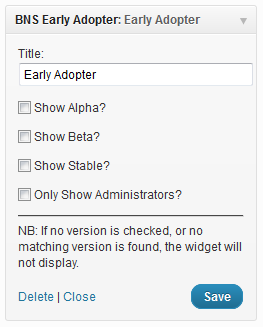
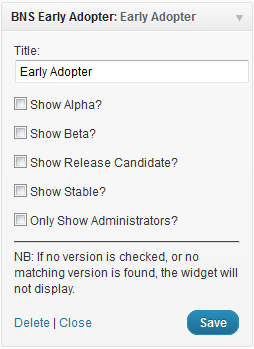
Added `margin: 0` to 'h3.bnsea-output'; updated screenshot

diff --git a/bnsea-style.css b/bnsea-style.css
@@ -1,6 +1,6 @@
 /**
  * This file is part of BNS Early Adopter
- * Last revised at version 0.2
+ * Last revised at version 0.3.1
  *
  * Copyright 2012  Edward Caissie  (email : edward.caissie@gmail.com)
  *
@@ -36,5 +36,6 @@ div.bnsea-shortcode div.widget h2 {
 
 h3.bnsea-output {
     font-style: italic;
+    margin: 0;
     text-align: center;
 }

diff --git a/bns-early-adopter.php b/bns-early-adopter.php
@@ -2,8 +2,8 @@
 /*
 Plugin Name: BNS Early Adopter
 Plugin URI: http://buynowshop.com/plugins/bns-early-adopter
-Description: Show off you are an early adopter of WordPress (alpha and/or beta versions)
-Version: 0.3
+Description: Show off you are an early adopter of WordPress (alpha, beta, and/or release candidate versions)
+Version: 0.3.1
 TextDomain: bns-ea
 Author: Edward Caissie
 Author URI: http://edwardcaissie.com/
@@ -20,7 +20,7 @@ License URI: http://www.gnu.org/licenses/old-licenses/gpl-2.0.html
  * @link        http://buynowshop.com/plugins/bns-early-adopter/
  * @link        https://github.com/Cais/bns-early-adopter/
  * @link        http://wordpress.org/extend/plugins/bns-early-adopter/
- * @version     0.3
+ * @version     0.3.1
  * @author      Edward Caissie <edward.caissie@gmail.com>
  * @copyright   Copyright (c) 2012, Edward Caissie
  *
@@ -44,9 +44,10 @@ License URI: http://www.gnu.org/licenses/old-licenses/gpl-2.0.html
  * The license for this software can also likely be found here:
  * http://www.gnu.org/licenses/gpl-2.0.html
  *
- * Last revised March 29, 2012
- * @version 0.3
- * Add 'release candidate' option
+ * Last revised April 14, 2012
+ * @version 0.3.1
+ * Added `margin: 0` to 'h3.bnsea-output'
+ * Updated screenshot
  *
  * @todo Add option to allow for end-user text?
  */
@@ -81,9 +82,9 @@ load_plugin_textdomain( 'bns-ea' );
 function BNSEA_Scripts_and_Styles() {
         /** Enqueue Scripts */
         /** Enqueue Style Sheets */
-        wp_enqueue_style( 'BNSEA-Style', plugin_dir_url( __FILE__ ) . 'bnsea-style.css', array(), '0.1', 'screen' );
+        wp_enqueue_style( 'BNSEA-Style', plugin_dir_url( __FILE__ ) . 'bnsea-style.css', array(), '0.3.1', 'screen' );
         if ( is_readable( plugin_dir_path( __FILE__ ) . 'bnsea-custom-style.css' ) ) {
-            wp_enqueue_style( 'BNSEA-Custom-Style', plugin_dir_url( __FILE__ ) . 'bnsea-custom-style.css', array(), '0.1', 'screen' );
+            wp_enqueue_style( 'BNSEA-Custom-Style', plugin_dir_url( __FILE__ ) . 'bnsea-custom-style.css', array(), '0.3.1', 'screen' );
         }
 }
 add_action( 'wp_enqueue_scripts', 'BNSEA_Scripts_and_Styles' );
@@ -135,7 +136,7 @@ class BNS_Early_Adopter_Widget extends WP_Widget {
         $version_string = strtolower( $wp_version );
         $ea_version = '';
 
-        /** Step through the version string looking for an "a" for alpha, or a "b" for beta */
+        /** Step through the version string looking for an "a" for alpha, "b" for beta, or "r" for release candidate */
         for ( $i = 1; $i < strlen( $version_string ); $i++ ) {
             if ( 'a' == substr( $version_string, $i, 1 ) || 'b' == substr( $version_string, $i, 1 ) ) {
                 /** @var    string $test_character - used to assign $ea_version string  */
@@ -152,11 +153,11 @@ class BNS_Early_Adopter_Widget extends WP_Widget {
                     /** @var string $ea_version - if 'r' is found then set to release */
                     $ea_version = 'release candidate';
                 } else {
-                    /** No 'a' or 'b' found must be some other nonsense or a 'public release' version */
+                    /** No 'a', 'b', or 'r' found must be some other nonsense or a 'stable release' */
                     $ea_version = 'stable';
                     // echo $ea_version;
                 }
-                /** @var number $i - if the `test_character` was found end the for loop by forcing the index value to its maximum */
+                /** @var number $i - if the `test_character` was found, end the for loop by forcing the index value to its maximum */
                 $i = strlen( $version_string );
             }
         }
